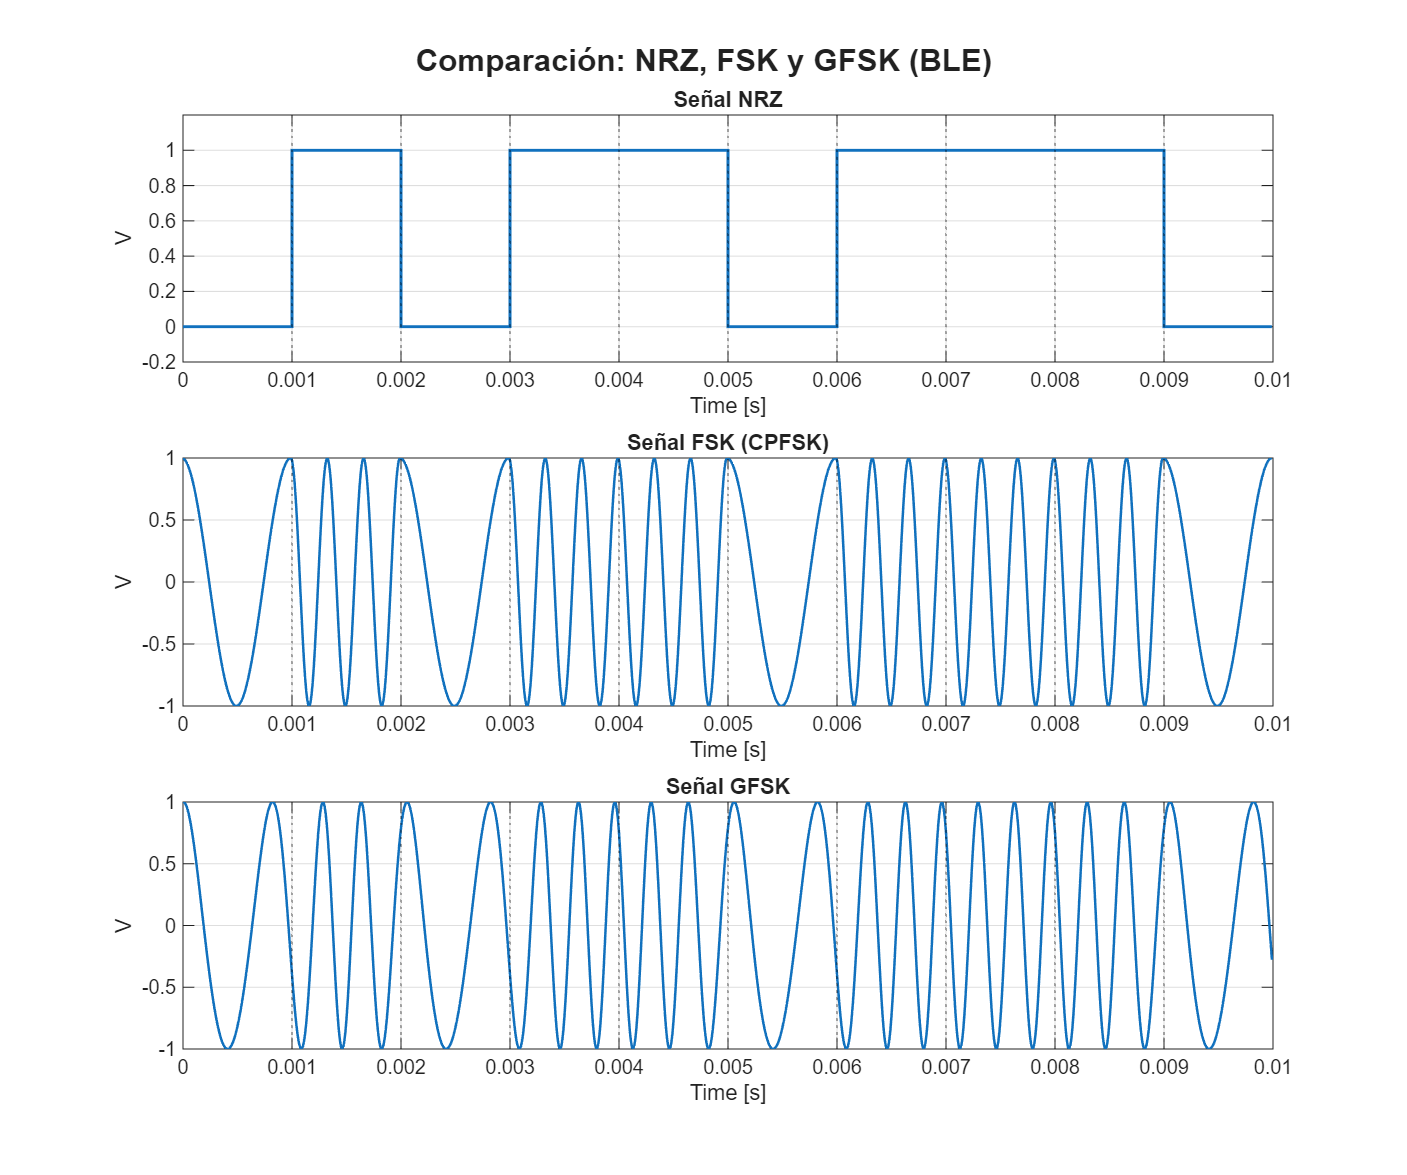
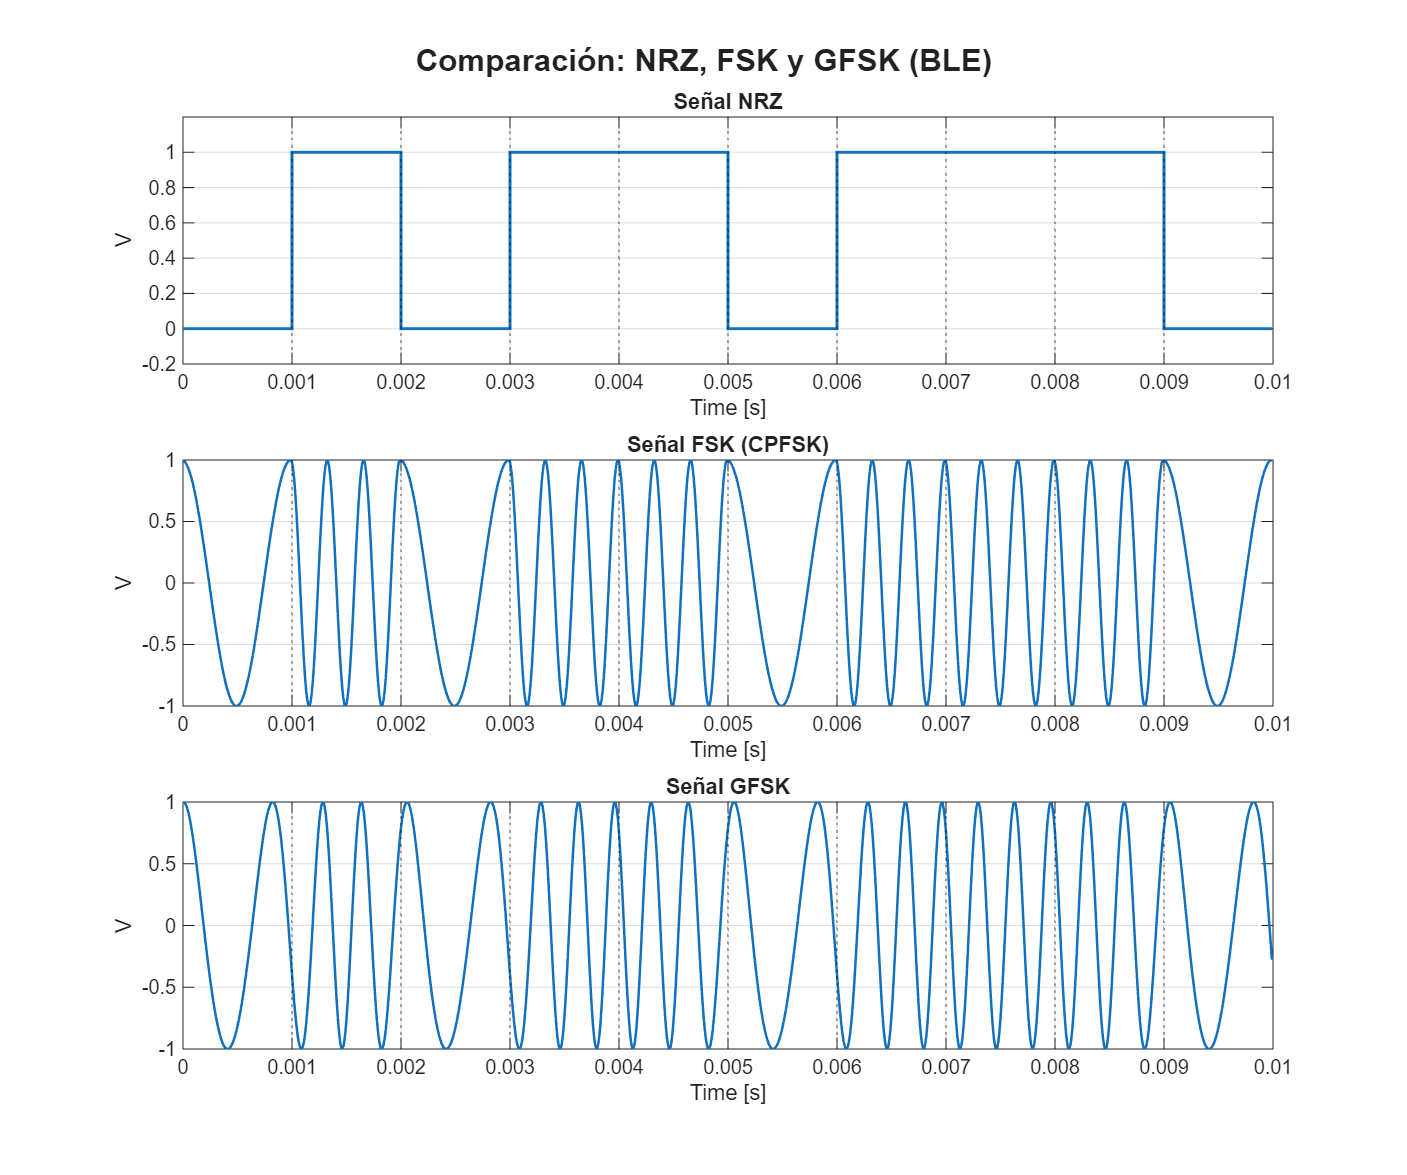
últimos detalles

diff --git a/Jupyter/Matlab/demodulacion.m b/Jupyter/Matlab/demodulacion.m
@@ -1,4 +1,4 @@
-%% DEMODULACIÓN GFSK (DIF BLE) SOLO CON LA SALIDA DEL CANAL
+%% DEMODULACIÓN GFSK
 
 % 1) Cargar señal recibida desde el canal
 rx_file = './csv/gfsk_rx_awgn_6dB_seed58.csv';
@@ -10,7 +10,7 @@ bits_per_second    = 1e3;
 samples_per_bit    = 100;      
 sampling_frequency = bits_per_second * samples_per_bit;
 carrier_frequency  = 2e3;      
-
+tStart = tic; % inicia temporización
 % 3) Señal analítica y fase
 z   = hilbert(rx);                % señal analítica (I + jQ)
 phi = unwrap(angle(z));           % fase instantánea [rad]
@@ -28,7 +28,9 @@ freq_por_bit  = mean(inst_freq_mat, 1);
 bits_rec = freq_por_bit > carrier_frequency;   % vector lógico 0/1
 bits_hat = bits_rec(:);                        % nombre "oficial" para exportar
 
-%% (Opcional) ver los primeros bits demodulados
+elapsed_proc = toc(tStart); %finaliza temporización
+fprintf('Tiempo de procesamiento: %.6f s\n', elapsed_proc);
+%% ver los primeros bits demodulados
 num_bits_plot = 20;
 nbp = min(num_bits_plot, numel(bits_hat));
 
